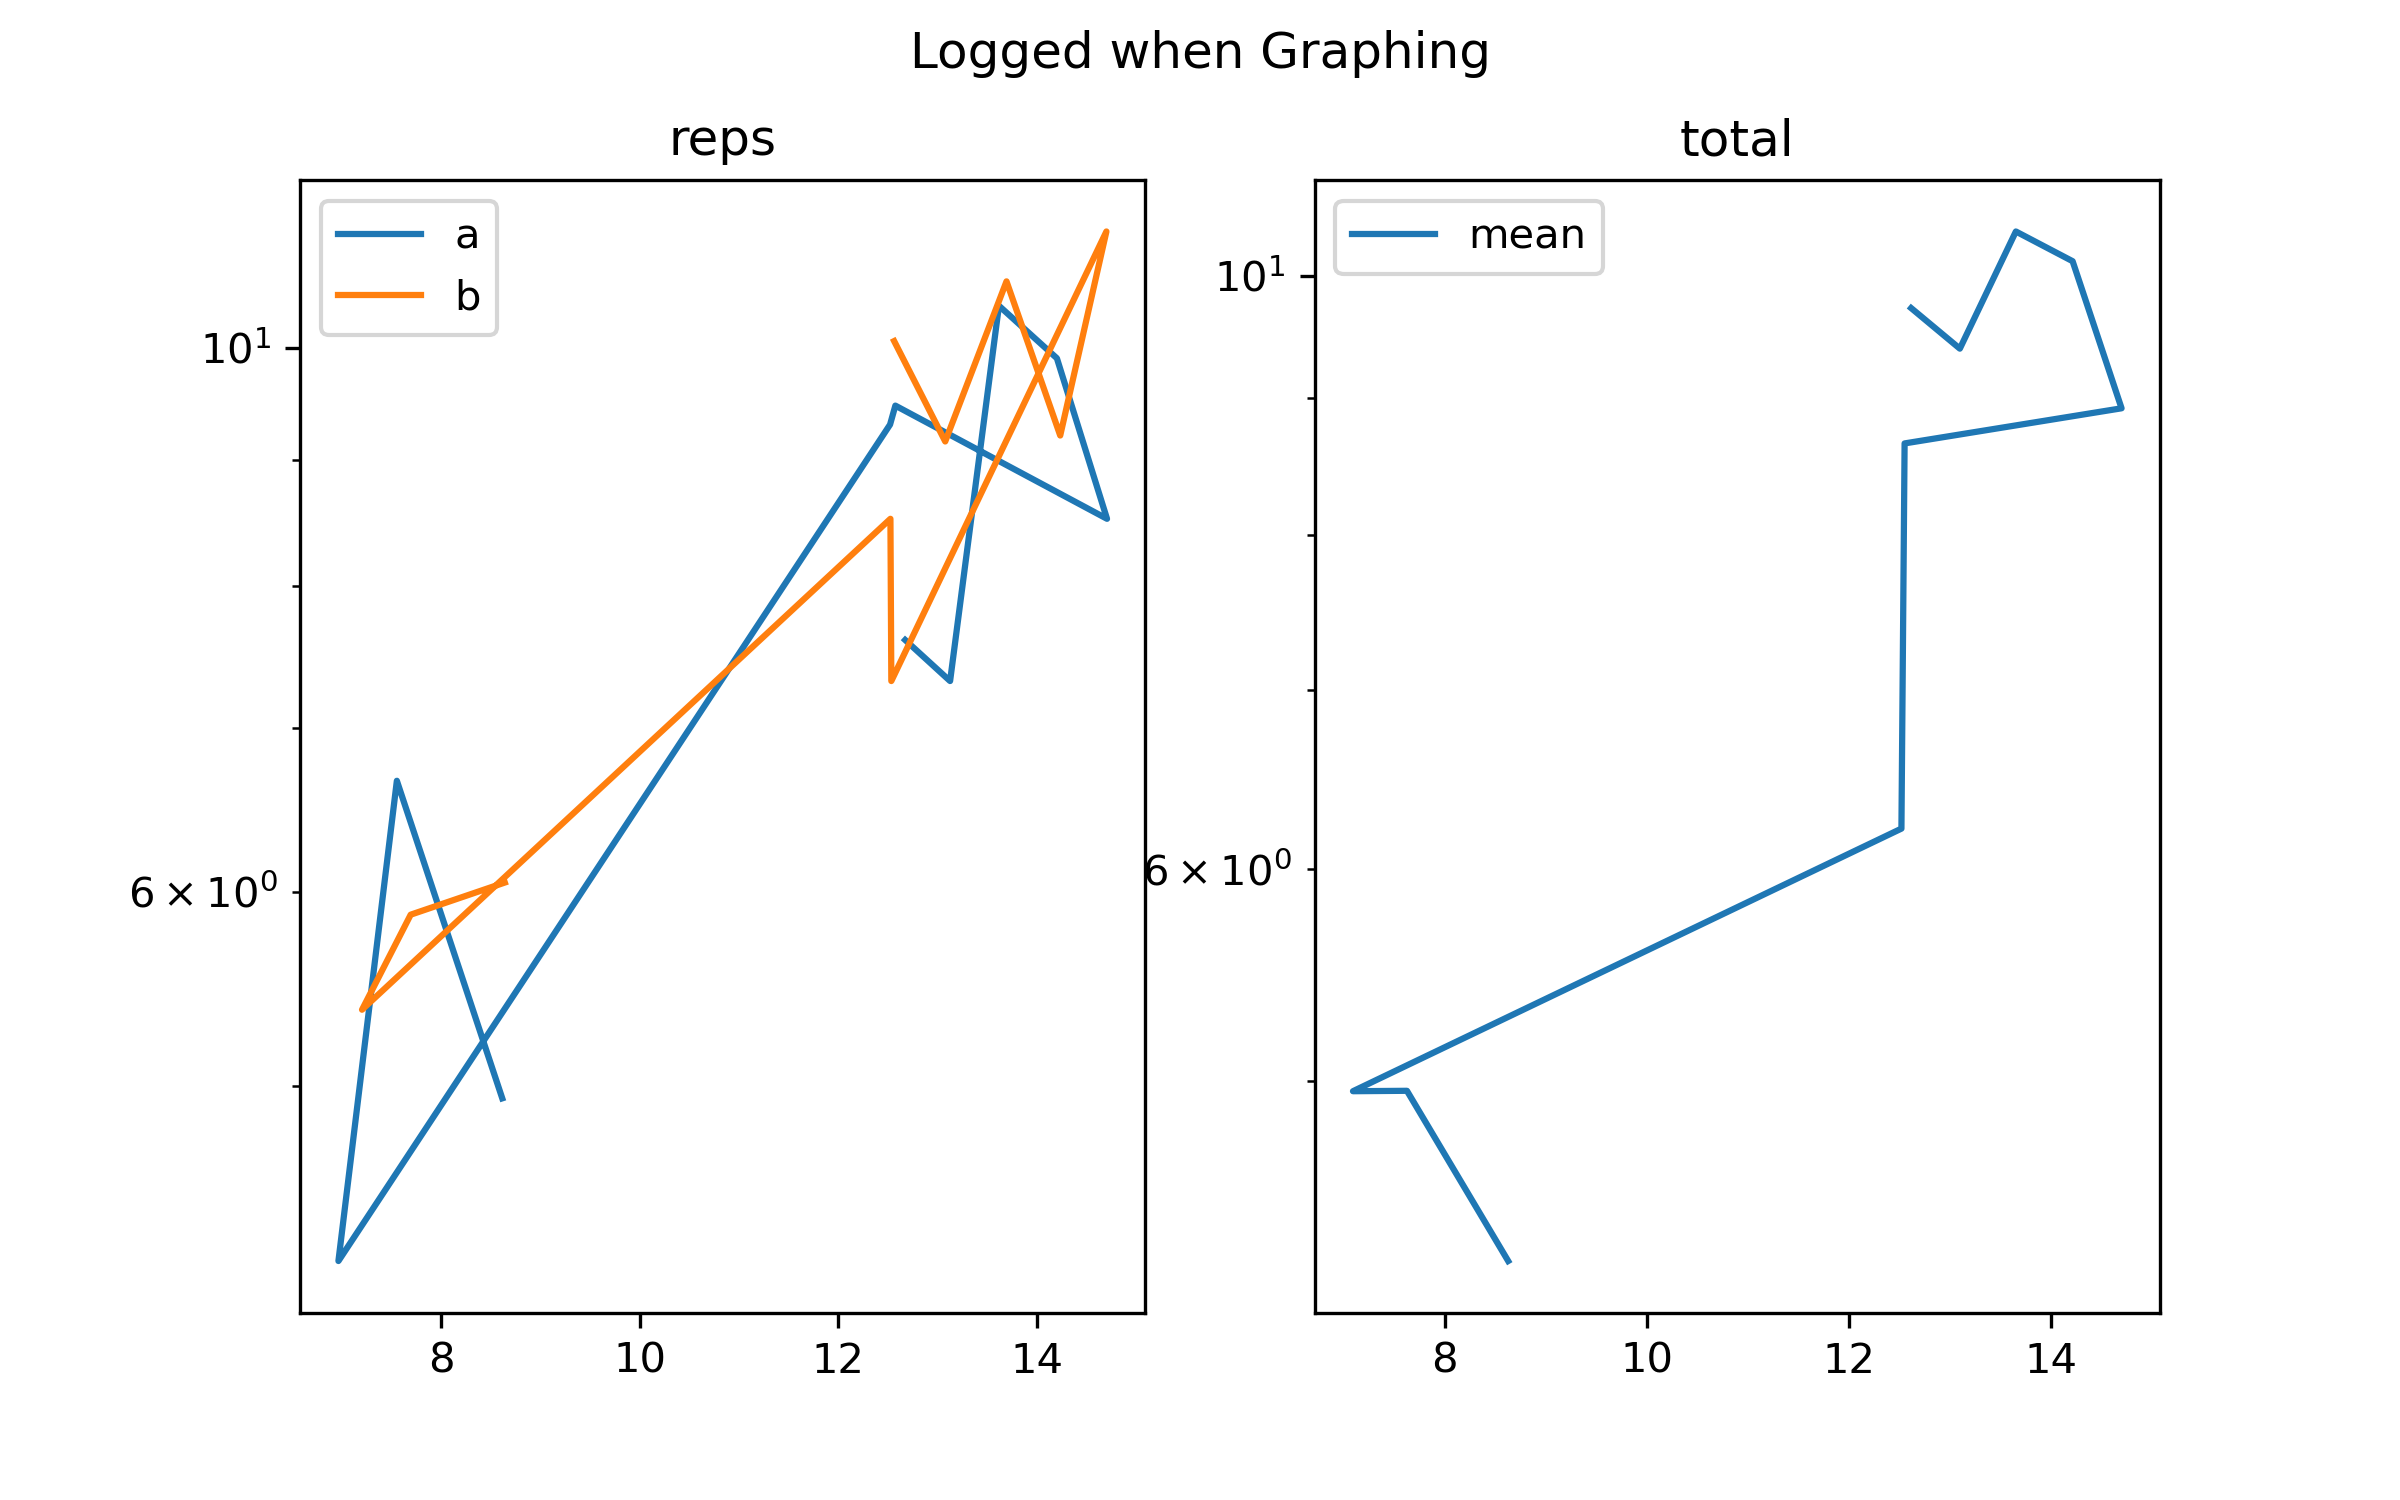
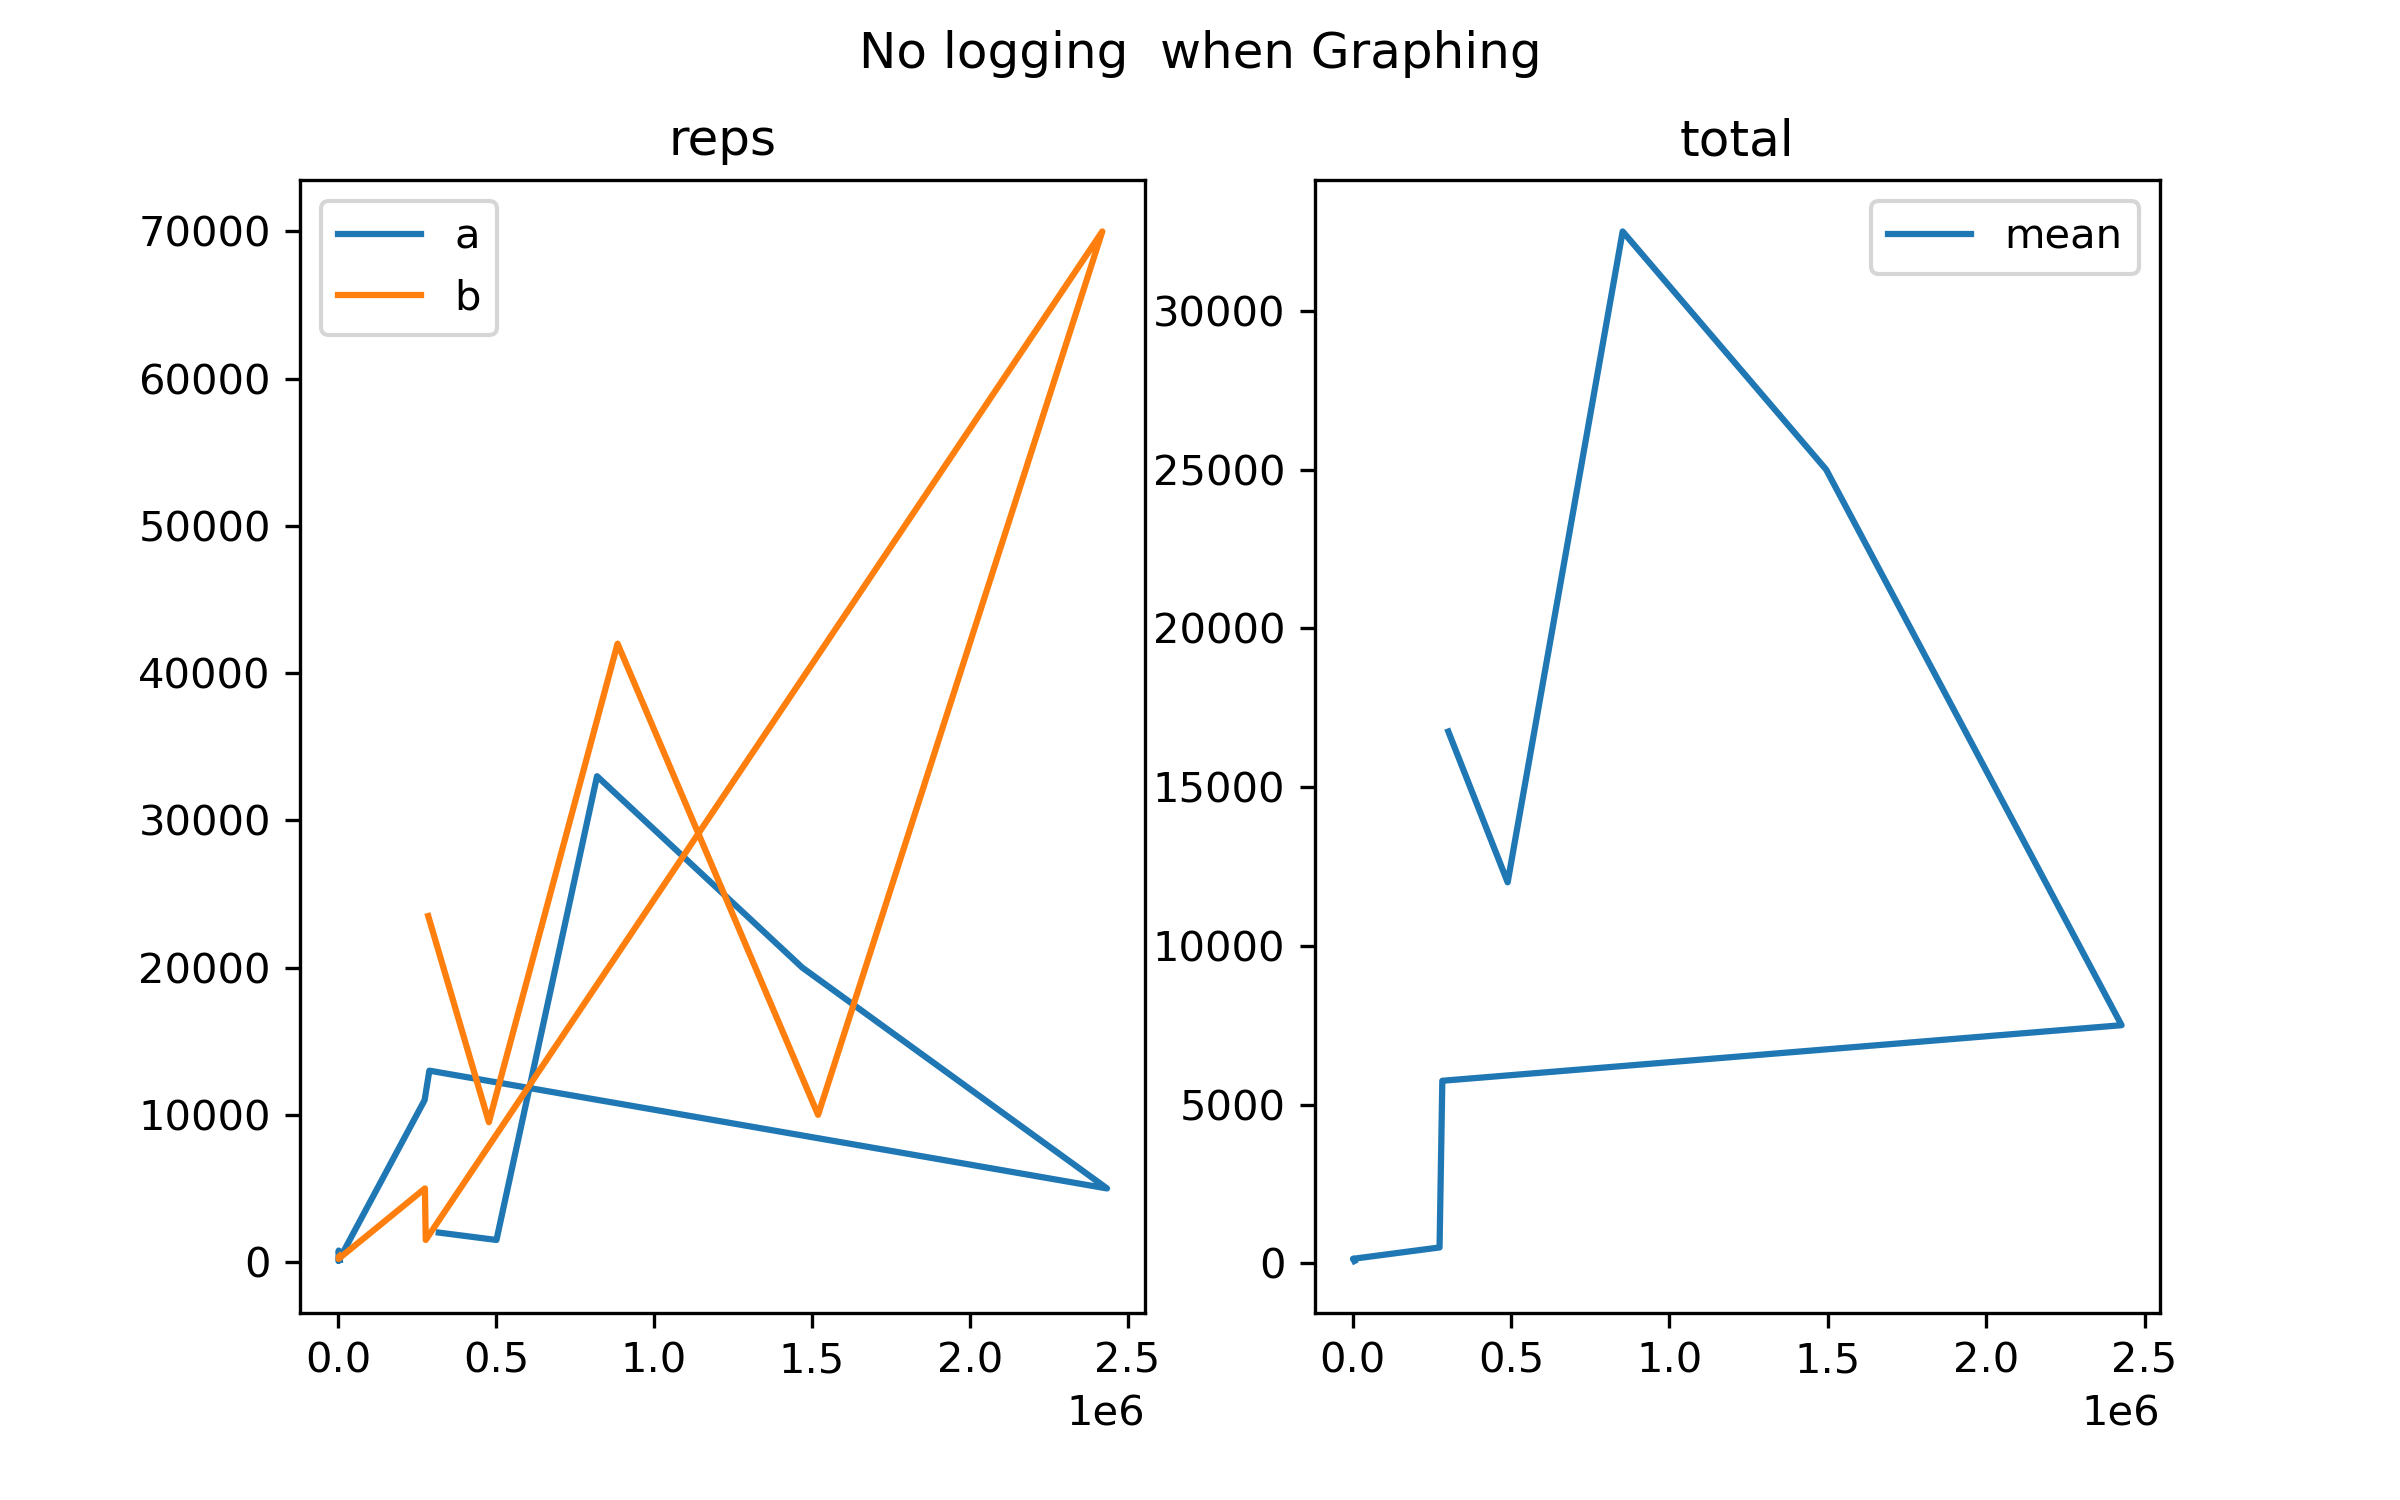
graphing

diff --git a/src/visualize_pro_batch.py b/src/visualize_pro_batch.py
@@ -6,14 +6,10 @@ import scipy
 
 df_all = pd.read_csv("../data/BCC_1-31-dataset.csv",header=1)
 df_all.drop(df_all.columns[df_all.columns.str.contains('unnamed',case = False)],axis = 1, inplace = True)
+df_all = df_all.rename({'Time(days)':'time'}, axis=1)    #'renaming column to make it callable by 'times'
 df = df_all
+'''
 
-
-df_abiotic = df.loc[df['assay'].str.contains('abiotic', case=False)].copy()  
-df_co = df.loc[df['assay'].str.contains('coculture', case=False)].copy()  
-df_mono = df.loc[~df['assay'].str.contains('coculture', case=False)].copy()  
-
-df = df_mono 
 df['techAmean'] = np.nanmean(np.r_[[df[i] for i in ['rep1','rep2']]],axis=0)
 df['techBmean'] = np.nanmean(np.r_[[df[i] for i in ['rep3','rep4']]],axis=0)
 df['techAstd'] = np.nanstd(np.r_[[df[i] for i in ['rep1','rep2']]],axis=0)
@@ -36,7 +32,12 @@ df['logtechBstd'] = np.nanstd(np.r_[[df[i] for i in ['lr3','lr4']]],axis=0)
 df['log_abundance'] = np.nanmean(np.r_[[df[i] for i in ['logtechA','logtechB']]],axis=0)
 df['log_abundance_std'] = np.nanstd(np.r_[[df[i] for i in ['logtechA','logtechB']]],axis=0)
 
+'''
+df_abiotic = df.loc[df['assay'].str.contains('abiotic', case=False)].copy()  
+df_co = df.loc[df['assay'].str.contains('coculture', case=False)].copy()  
+df_mono = df.loc[~df['assay'].str.contains('coculture', case=False)].copy()  
 
+#df = df_mono 
 
 #df['log_abundance'] = np.nanmean(np.log(np.r_[[df[i] for i in ['rep1','rep2','rep3','rep4']]],axis=0))
 #df['log_stdv'] = np.std(np.log(np.r_[[df[i] for i in ['rep1','rep2','rep3','rep4']]],axis=0))
@@ -47,19 +48,26 @@ df_P = df_mono.loc[df_mono['organism'].str.contains('P', case=False)].copy()
 df_S = df_mono.loc[df_mono['organism'].str.contains('S', case=False)].copy() 
 
 
-df =  df_S[df_S['strain'] == 'WH7803'].copy() 
+df = df_P
+#df =  df_S[df_S['strain'] == 'WH7803'].copy() 
 
-
+'''
 
 f1,ax = plt.subplots(1,2,figsize=[8,5],dpi = 300)
-f1.suptitle('Logged when Graphing')
+f1.suptitle('No logging  when Graphing')
 ax[0].set_title('reps')
 ax[1].set_title('total')
-ax[0].plot(np.log(df.techAmean),np.log(df.techAstd),label = 'a')
-ax[0].plot(np.log(df.techBmean),np.log(df.techBstd), label = 'b')
-ax[1].plot(np.log(df.abundance_mean),np.log(df.abundance_std), label = 'mean')
-ax[0].semilogy()
-ax[1].semilogy()
+#ax[0].plot(np.log(df.techAmean),np.log(df.techAstd),label = 'a')
+#ax[0].plot(np.log(df.techBmean),np.log(df.techBstd), label = 'b')
+#ax[1].plot(np.log(df.abundance_mean),np.log(df.abundance_std), label = 'mean')
+#ax[0].semilogy()
+#ax[1].semilogy()
+ax[0].plot((df.techAmean),(df.techAstd),label = 'a')
+ax[0].plot((df.techBmean),(df.techBstd), label = 'b')
+ax[1].plot((df.abundance_mean),(df.abundance_std), label = 'mean')
+#ax[0].semilogy()
+#ax[1].semilogy()
+
 ax[0].legend()
 ax[1].legend()
 
@@ -75,18 +83,34 @@ ax[1].set_title('total')
 ax[0].plot((df.logtechA),(df.logtechAstd),label = 'a')
 ax[0].plot((df.logtechB),(df.logtechBstd), label = 'b')
 ax[1].plot((df.log_abundance),(df.log_abundance_std), label = 'mean')
-ax[0].semilogy()
-ax[1].semilogy()
+#ax[0].semilogy()
+#ax[1].semilogy()
 ax[0].legend()
 ax[1].legend()
 
 plt.show()
 
 f2.savefig('../figures/f2',dpi=300)
+'''
 
-
-
-
+strains = df_mono['strain'].unique()
+nstrains = strains.shape[0]
+colors = ['r','orange','g','b','k']
+fig3, (ax)= plt.subplots(nstrains,2,figsize = (10,16))
+fig3.suptitle('Unlogged Data')
+for (S,si) in zip(strains,range(nstrains)):   
+    df = df_mono[((df_mono['strain']==S))].copy()
+    df['avg1'] = df[['rep1', 'rep3']].mean(axis=1)
+    df['avg2'] = df[['rep2', 'rep4']].mean(axis=1)
+    df['std1'] = df[['rep1', 'rep3']].std(axis=1)
+    df['std2'] = df[['rep2', 'rep4']].std(axis=1)
+    df0 = df[((df['assay']=='plus_0'))].copy()
+    df400 = df[((df['assay']=='plus_400'))].copy()
+    #print(df0.info(),df400.info())
+    ax[si,0].plot(df0['time'],df0['avg1'], marker='o',label = S)
+    ax[si,1].plot(df400['time'],df400['avg1'], yerr='std1',marker='o',label = S)
+    df0.plot(kind='scatter', x='time', y ='avg1', yerr='std1',style="-", label = S, title = '0 HOOH assay', ylabel = 'cells per mL',logy = True)
+    df400.plot(kind='scatter', x='time', y ='avg1', yerr='std1',style="-", label = S, title = '400 HOOH assay', ylabel = 'cells per mL',logy = True)
 
 
 
